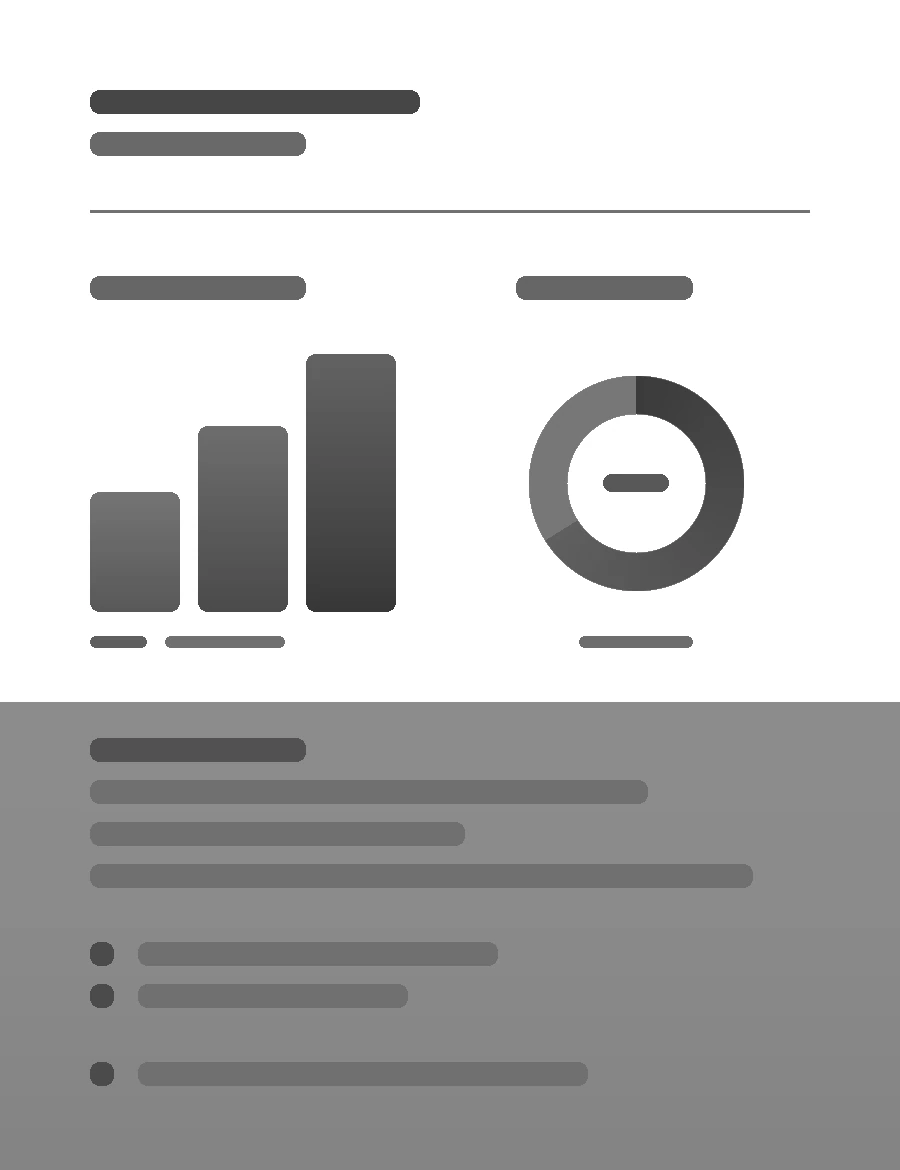
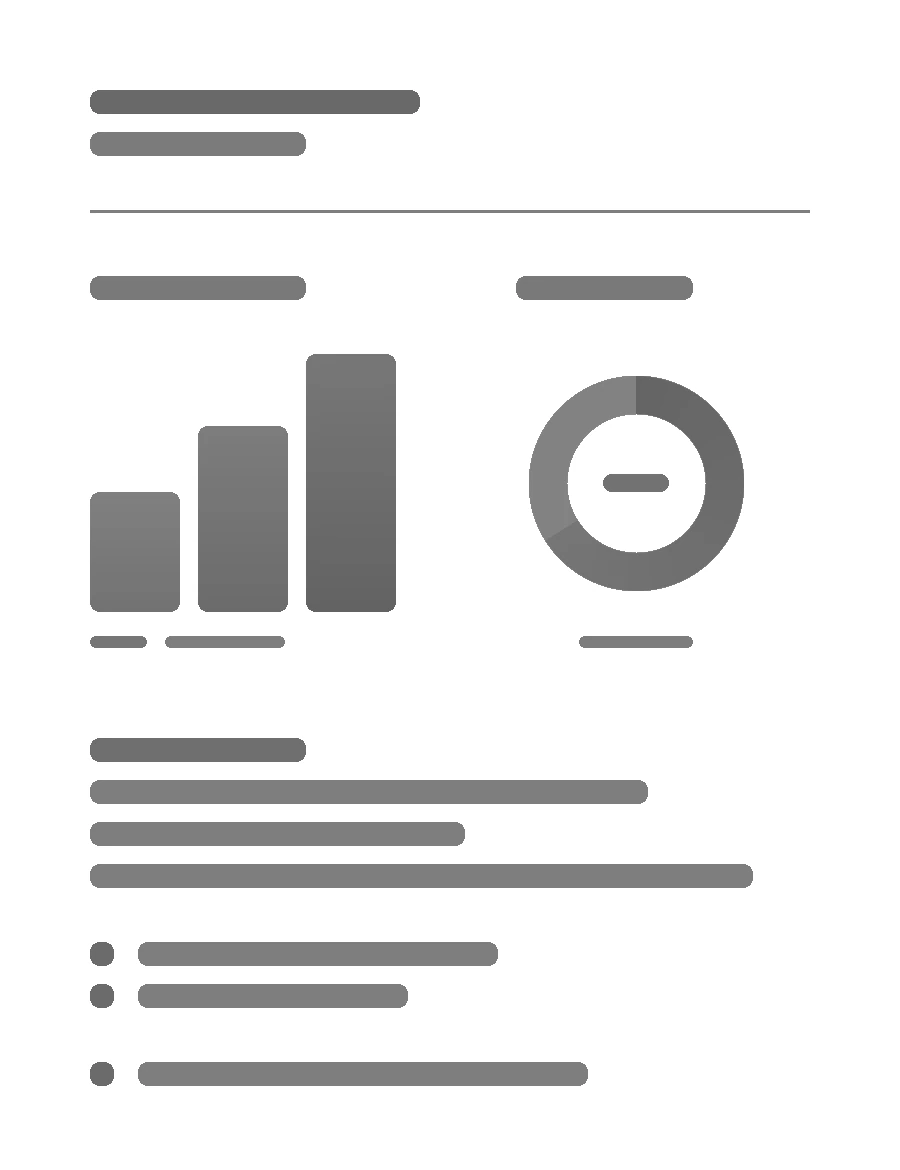
rastro discreto e folha do painel bem mais clara
RASTRO. Na rodada anterior eu tinha exagerado: 38,65% dos pixels mudavam sob
o mouse, diferenca media de 100,6. Para um site que vende confianca, a pagina
nao pode reagir com estardalhaco ao ponteiro. Os tres canais recuaram:
  uBiasReacao  0,34 -> 0,23
  uTrailMul    1,45 -> 1,27
  uPixMul      4,2  -> 3,8   (celula de 3,0 px de tela)
Medido no canvas com readPixels e o hover travado: 5,51% dos pixels, media
13,4. Um setimo da intensidade rejeitada, e ainda o dobro do patamar em que o
efeito passava despercebido. O rastro le como um disco de textura, nao como um
quadriculado.

FOLHA DO PAINEL. Ela e papel de fundo da ilustracao, nao a peca principal, e
estava pesada demais. O gerador ganhou um knob so, CLARO = 0,50, que encolhe
TODA a tinta do desenho na direcao do creme, entao barras, rosca, fios e
linhas de texto clareiam juntos e o desenho segue coerente. Creme de 87% para
94%, e o azul escuro sumiu de vez.

Saiu tambem o escurecimento do pe da folha: com CLARO=0,5 o desvio caiu para
0,025 de tom, abaixo de um degrau de quantizacao, e virava um campo de pontos
com borda visivel em vez de degrade.

A celula da folha ja era propria (pixMul 2,6) e desceu para 2,2, porque a peca
tem 277 px de largura.

diff --git a/index.html b/index.html
@@ -3825,8 +3825,8 @@ document.querySelectorAll('.rv').forEach(function(e){ io.observe(e); });
       gl.uniform3f(uF.uC3, C[3][0]/255, C[3][1]/255, C[3][2]/255);
       gl.uniform3f(uF.uCreme, CR[0]/255, CR[1]/255, CR[2]/255);
       gl.uniform1f(uF.uGama, .86); gl.uniform1f(uF.uCtr, 1.55); gl.uniform1f(uF.uBrilho, .35);
-      gl.uniform1f(uF.uPix, Math.max(1, pix.v)); gl.uniform1f(uF.uPixMul, cfg.pixMul || 4.2); gl.uniform1f(uF.uTrailMul, 1.45);
-      gl.uniform1f(uF.uBias, bias.v); gl.uniform1f(uF.uBiasReacao, .34); gl.uniform1f(uF.uRespiro, cfg.respiro == null ? .012 : cfg.respiro);
+      gl.uniform1f(uF.uPix, Math.max(1, pix.v)); gl.uniform1f(uF.uPixMul, cfg.pixMul || 3.8); gl.uniform1f(uF.uTrailMul, 1.27);
+      gl.uniform1f(uF.uBias, bias.v); gl.uniform1f(uF.uBiasReacao, .23); gl.uniform1f(uF.uRespiro, cfg.respiro == null ? .012 : cfg.respiro);
       gl.uniform1f(uF.uRevela, cfg.revelaNaTrilha == null ? 0 : cfg.revelaNaTrilha);
 
       planos.forEach(function(pl){
@@ -3878,7 +3878,7 @@ document.querySelectorAll('.rv').forEach(function(e){ io.observe(e); });
     var folha = document.querySelector('.dm-folha-foto'); if(!folha) return;
     var im = folha.querySelector('img'); if(!im) return;
     ditherVivo({raiz:folha, planos:[{el:folha, lum:im.getAttribute('data-lum')}], classeCanvas:'dm-gl', revelar:'visivel',
-      cores:[[21.2,50.9,80.6],[24.2,56.2,88.1],[103.0,146.1,189.4],[250,249,245]], pincel:.5, respiro:.008, pixMul:2.6});
+      cores:[[21.2,50.9,80.6],[24.2,56.2,88.1],[103.0,146.1,189.4],[250,249,245]], pincel:.5, respiro:.008, pixMul:2.2});
   })();
 
   /* ---------------- a moldura de noticias: quatro camadas empilhadas ---------------- */
